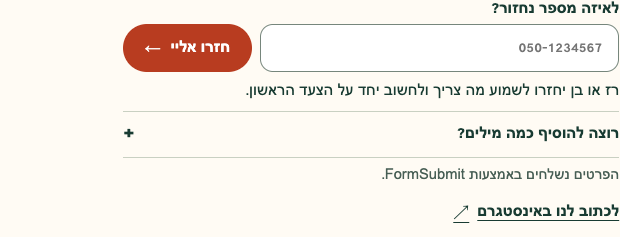
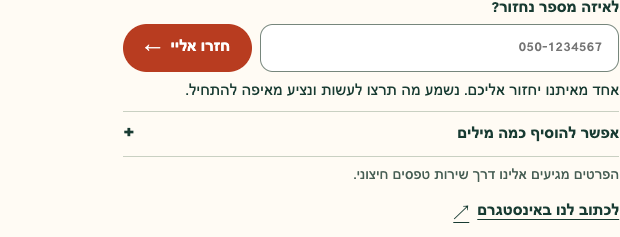
Use clear conversational Hebrew throughout the studio site

diff --git a/dist/index.html b/dist/index.html
@@ -4,9 +4,9 @@
   <meta charset="utf-8">
   <meta name="viewport" content="width=device-width, initial-scale=1">
   <meta name="theme-color" content="#fffbf4">
-  <meta name="description" content="רז ובן בונים אתרים, כלים ומוצרים דיגיטליים. יש לכם עסק, יוזמה או משימה שגוזלת זמן? בואו לראות איך אפשר לעזור.">
+  <meta name="description" content="אנחנו רז ובן. בונים אתרים לעסקים, כלים לניהול פניות וגרסאות ראשונות של אפליקציות. אפשר להשאיר מספר טלפון או לכתוב לנו באינסטגרם.">
   <meta property="og:title" content="RABEN | סטודיו לעיצוב ופיתוח">
-  <meta property="og:description" content="אתר שיציג אתכם, כלי שיקל על העבודה או גרסה ראשונה לרעיון שלכם.">
+  <meta property="og:description" content="אתר שיציג את העסק, כלי שיעזור לעקוב אחרי פניות או גרסה ראשונה של אפליקציה.">
   <meta property="og:type" content="website">
   <title>RABEN | סטודיו לעיצוב ופיתוח</title>
   <link rel="icon" href="assets/favicon.png">
@@ -31,7 +31,7 @@
   <div class="intro-copy">
     <p class="studio-line"><span aria-hidden="true"></span> סטודיו לעיצוב ופיתוח</p>
     <h1 id="intro-title">אתרים לעסקים. כלים שמקלים על העבודה.</h1>
-    <p class="intro-text">אנחנו רז ובן. בונים אתרים, מרכזים עבודה שמתפזרת בין הודעות וגיליונות, ועוזרים לבדוק רעיונות לאפליקציות.</p>
+    <p class="intro-text">אנחנו רז ובן. בסטודיו שלנו בונים אתרים שבהם לקוחות יכולים להכיר אתכם ולפנות אליכם. אנחנו בונים גם כלים לניהול פניות וגרסאות ראשונות של אפליקציות.</p>
     <div id="contact" class="hero-contact">
       <form id="brief-form" class="journey-form" aria-label="בקשת שיחת היכרות עם רז ובן" action="https://formsubmit.co/raben10studio@gmail.com" method="post">
       <fieldset>
@@ -42,19 +42,19 @@
           <button type="submit">חזרו אליי <span aria-hidden="true">←</span></button>
         </div>
         <p id="phone-error" class="field-error" role="alert" aria-atomic="true"></p>
-        <p class="callback-note">רז או בן יחזרו לשמוע מה צריך ולחשוב יחד על הצעד הראשון.</p>
+        <p class="callback-note">אחד מאיתנו יחזור אליכם. נשמע מה תרצו לעשות ונציע מאיפה להתחיל.</p>
         <details id="brief-extras" class="journey-extras">
-          <summary><span>רוצה להוסיף כמה מילים? <small id="brief-topic"></small></span></summary>
+          <summary><span>אפשר להוסיף כמה מילים <small id="brief-topic"></small></span></summary>
           <label for="idea">על מה נדבר?</label>
           <textarea id="idea" name="message" rows="2" maxlength="2000"></textarea>
           <div class="journey-fields">
             <div><label for="name">שם</label><input id="name" name="name" autocomplete="name" maxlength="100"></div>
             <div><label for="kind">נושא הפנייה</label>
               <select id="kind" name="project_type">
-                <option value="רוצה לחשוב על זה יחד">אשמח לחשוב יחד</option>
+                <option value="רוצה לחשוב על זה יחד">אשמח להתייעץ</option>
                 <option value="אתר או ממשק">אתר או דף נחיתה</option>
                 <option value="כלי לעסק">כלי לעבודה יומיומית</option>
-                <option value="רעיון למוצר">מוצר דיגיטלי חדש</option>
+                <option value="רעיון למוצר">רעיון לאפליקציה</option>
                 <option value="שיתוף פעולה">שיתוף פעולה</option>
               </select>
             </div>
@@ -63,7 +63,7 @@
         <input type="text" name="_honey" tabindex="-1" autocomplete="off" hidden>
         <input type="hidden" name="_subject" value="בקשה לשיחת היכרות מאתר RABEN">
         <input type="hidden" name="_template" value="table">
-        <p class="journey-form-note">הפרטים נשלחים באמצעות FormSubmit.</p>
+        <p class="journey-form-note">הפרטים מגיעים אלינו דרך שירות טפסים חיצוני.</p>
       </fieldset>
       <p id="form-status" role="status" aria-atomic="true"></p>
       <div id="contact-fallback" hidden>
@@ -81,7 +81,7 @@
 <section class="section services" id="websites" aria-labelledby="websites-title">
   <div class="services-heading">
     <h2 id="websites-title">מה תרצו לעשות?</h2>
-    <p>הנה שלושה צרכים שאפשר להתחיל מהם, ודוגמה למה שנוכל לבנות יחד בכל מקרה.</p>
+    <p>בחרנו שלוש דוגמאות מהיום־יום כדי להראות איך אתר או כלי יכולים לעזור.</p>
   </div>
   <div class="service-options">
     <article class="service-option" id="solution-website">
@@ -96,12 +96,12 @@
       </div>
       <div class="service-body">
         <h3>להציג פעילות ולקבל הרשמות</h3>
-        <p>יש לכם שירות, שיעור או אירוע? נבנה עמוד שמסביר מה מציעים, למי זה מתאים ואיך פונים או נרשמים.</p>
+        <p>אם אתם מציעים שירות או מעבירים סדנה, נבנה עמוד שבו אפשר לראות מה אתם מציעים, לשאול שאלה או להירשם.</p>
         <details class="service-example">
           <summary>איך נרשמים לסדנה? <span aria-hidden="true"></span></summary>
-          <p>בעמוד של סדנת קרמיקה רואים מה מכינים ומתי נפגשים. מי שרוצה להצטרף בוחר מועד ומשאיר פרטים באותו עמוד.</p>
+          <p>בעמוד של סדנת קרמיקה רואים מה מכינים ומתי נפגשים. אפשר לבחור מועד ולהשאיר פרטים באותו עמוד.</p>
         </details>
-        <a class="service-contact" href="#contact" data-service-kind="אתר או ממשק">נדבר על עמוד לפעילות שלי <span aria-hidden="true">←</span></a>
+        <a class="service-contact" href="#contact" data-service-kind="אתר או ממשק">נדבר על האתר שלי <span aria-hidden="true">←</span></a>
       </div>
     </article>
     <article class="service-option" id="solution-tool">
@@ -115,10 +115,10 @@
       </div>
       <div class="service-body">
         <h3>לראות למי עוד צריך לחזור</h3>
-        <p>פניות מתפזרות בין הודעות לרשימות? נרכז אותן בכלי אחד שמראה מי מחכה לתשובה ומי כבר קיבל מענה.</p>
+        <p>כשהפניות מגיעות מכמה מקומות, קל לפספס הודעה. נבנה כלי שבו רואים מי פנה, מי מטפל בפנייה ולמי עוד צריך לחזור.</p>
         <details class="service-example">
           <summary>איך עוקבים אחרי פנייה? <span aria-hidden="true"></span></summary>
-          <p>מרכז קהילתי מקבל בקשות על החוגים שלו. ליד כל פנייה מופיעים מי מטפל בה ומה מצב הטיפול, כדי שגם במשמרת הבאה ידעו למי לחזור.</p>
+          <p>למשל, במרכז קהילתי אפשר לרשום מי התעניין בחוג ומי כבר חזר אליו. כשמתחלפת משמרת, הצוות רואה אילו פניות נשארו פתוחות.</p>
         </details>
         <a class="service-contact" href="#contact" data-service-kind="כלי לעסק">נדבר על כלי למעקב <span aria-hidden="true">←</span></a>
       </div>
@@ -135,7 +135,7 @@
       </div>
       <div class="service-body">
         <h3>לבדוק רעיון עם אנשים</h3>
-        <p>יש לכם רעיון לאפליקציה? נבנה את הפעולה הכי חשובה בה, כדי שאנשים ינסו אותה ותראו מה עובד ומה כדאי לשנות.</p>
+        <p>יש לכם רעיון לאפליקציה? נתחיל בגרסה קטנה שאפשר לנסות. נראה איך אנשים משתמשים בה ונחליט יחד מה כדאי לשפר או להוסיף.</p>
         <details class="service-example">
           <summary>איך בודקים רעיון לאפליקציה? <span aria-hidden="true"></span></summary>
           <p>באפליקציה למציאת שותפים ללימוד בוחרים מקצוע ושעות נוחות, רואים מי לומד באותן שעות ושולחים הזמנה. כך אפשר לבדוק אם נוצרות פגישות לימוד.</p>
@@ -149,14 +149,14 @@
   <div class="journey-shell journey-about-layout">
     <div class="journey-intro">
       <h2 id="about-title">עובדים ישירות עם רז ובן</h2>
-      <p>אנחנו שותפים בסטודיו לעיצוב ופיתוח. שנינו מלווים את הפרויקט מהשיחה הראשונה ועד שבודקים יחד את מה שבנינו.</p>
+      <p>אנחנו שותפים בסטודיו לעיצוב ופיתוח. איתנו תדברו על מה שצריך, ואנחנו גם נעצב, נבנה ונבדוק את האתר או את הכלי.</p>
     </div>
     <div id="process" class="journey-process" aria-labelledby="process-title">
       <h3 id="process-title">איך עובדים יחד?</h3>
       <ol>
         <li><div><h4>מתחילים בשיחה</h4><p>נשמע מה צריך ולמי זה מיועד. אחרי השיחה תקבלו הצעה שמפרטת מה נבנה, כמה זה יעלה ומתי זה יהיה מוכן.</p></div></li>
-        <li><div><h4>רואים איך זה ייראה</h4><p>נעבור יחד על המסכים, נבדוק אם הכל ברור ונעדכן את העיצוב לפי המשוב שלכם.</p></div></li>
-        <li><div><h4>בונים ובודקים</h4><p>נפתח את האתר או הכלי ונבדוק יחד את הפעולות העיקריות במחשב ובטלפון.</p></div></li>
+        <li><div><h4>עוברים על העיצוב</h4><p>נראה לכם איך ייראו המסכים ואיפה ילחצו כדי לפנות או להירשם. נעבור עליהם יחד ונשנה את מה שצריך לפני שנתחיל בפיתוח.</p></div></li>
+        <li><div><h4>בונים ובודקים</h4><p>נבנה את האתר או הכלי ונבדוק שהפעולות החשובות עובדות גם במחשב וגם בטלפון, למשל שטופס הרשמה באמת קולט את הפרטים.</p></div></li>
       </ol>
     </div>
   </div>
@@ -169,8 +169,8 @@
     <h2 id="faq-title">לפני שמתחילים</h2>
     <div class="journey-answers">
       <details><summary>כמה זה עולה?</summary><p>המחיר תלוי במה שצריך לעצב ולפתח. אחרי שיחת ההיכרות תקבלו הצעה שמפרטת מה כלול, מה המחיר וכמה זמן זה ייקח, ותוכלו להחליט אם להתקדם.</p></details>
-      <details><summary>אפשר לשפר אתר קיים?</summary><p>כן. שלחו קישור וספרו מה הייתם רוצים לשנות. נבדוק מה עובד היום ואיפה אפשר להקל על מי שמשתמש באתר.</p></details>
-      <details><summary>מה כדאי להכין לשיחה?</summary><p>אפשר להגיע גם עם רעיון ראשוני. מספיק לספר מה חסר היום ולמי זה יעזור. אם יש אתר קיים או דוגמה שאהבתם, אפשר לצרף קישור.</p></details>
+      <details><summary>אפשר לשפר אתר קיים?</summary><p>כן. שלחו לנו קישור וספרו מה הייתם רוצים לשפר. נבדוק את האתר ונציע מה כדאי להשאיר ומה כדאי לשנות.</p></details>
+      <details><summary>מה כדאי להכין לשיחה?</summary><p>מספיק לספר מה הייתם רוצים שיהיה קל יותר. אם יש לכם אתר קיים או דוגמה שאהבתם, קישור יעזור לנו להבין למה התכוונתם.</p></details>
     </div>
   </div>
 </section>
@@ -178,7 +178,7 @@
   <div class="journey-shell closing-contact">
     <div class="journey-intro">
       <h2 id="contact-title">שנדבר על זה?</h2>
-      <p>גם שאלה אחת על האתר או על הדרך שבה אתם עובדים היא סיבה טובה לכתוב לנו.</p>
+      <p>אפשר לכתוב לנו שאלה באינסטגרם או להשאיר מספר ונחזור אליכם.</p>
     </div>
     <div class="closing-actions"><a class="header-contact" href="#contact">בקשו שיחה <span aria-hidden="true">←</span></a><a class="journey-social" data-instagram href="https://ig.me/m/raben10studio" target="_blank" rel="noopener noreferrer">כתבו באינסטגרם <span aria-hidden="true">↗</span></a></div>
   </div>

diff --git a/dist/app.js b/dist/app.js
@@ -26,7 +26,7 @@ function createProjectCard(project) {
   }
   const body = makeElement('div', 'project-body');
   body.append(makeElement('span', 'project-category', project.category));
-  if (project.concept) body.append(makeElement('span', 'concept-label', 'דוגמת קונספט'));
+  if (project.concept) body.append(makeElement('span', 'concept-label', 'דוגמה להמחשה'));
   body.append(
     makeElement('h3', 'project-title', project.title),
     makeElement('p', 'project-description', project.description),
@@ -104,10 +104,10 @@ function callbackMessage() {
 
 function updateFallback() {
   instagramBrief.value = [
-    'היי רז ובן, אשמח לדבר על פרויקט.',
+    'היי רז ובן,',
     ...(nameField.value.trim() ? ['שם: ' + nameField.value.trim()] : []),
     'טלפון: ' + phone.value.trim(),
-    'סוג הפרויקט: ' + kind.selectedOptions[0].textContent,
+    'נושא הפנייה: ' + kind.selectedOptions[0].textContent,
     '',
     callbackMessage()
   ].join('\n');
@@ -140,8 +140,8 @@ form.addEventListener('submit', async event => {
   if (!phone.checkValidity()) {
     phone.setAttribute('aria-invalid', 'true');
     phoneError.textContent = phone.validity.valueMissing
-      ? 'כדי שנוכל לחזור אליך, צריך להוסיף מספר טלפון.'
-      : 'כדאי לבדוק את מספר הטלפון ולהוסיף קידומת, למשל 050-1234567.';
+      ? 'חסר מספר טלפון לחזרה.'
+      : 'אפשר להזין מספר עם קידומת, למשל 050-1234567.';
     phone.focus();
     return;
   }
@@ -172,13 +172,13 @@ form.addEventListener('submit', async event => {
     updateTopic();
     instagramBrief.value = '';
     formStatus.dataset.state = 'success';
-    formStatus.textContent = 'תודה, הפנייה נשלחה. נחזור אליך למספר שהשארת.';
+    formStatus.textContent = 'תודה, קיבלנו את הבקשה. נחזור למספר שהשארתם.';
   } catch {
     updateFallback();
     copyStatus.textContent = 'אחרי ההעתקה אפשר להדביק את ההודעה בשיחה ולשלוח.';
     fallback.hidden = false;
     formStatus.dataset.state = 'error';
-    formStatus.textContent = 'לא התקבל אישור שליחה. הפרטים נשמרו כאן ואפשר לנסות שוב או לשלוח אותם באינסטגרם.';
+    formStatus.textContent = 'לא קיבלנו אישור שהבקשה הגיעה. הפרטים עדיין בטופס. אפשר לנסות שוב או לשלוח לנו את ההודעה באינסטגרם.';
   } finally {
     clearTimeout(timer);
     fieldset.disabled = false;
@@ -192,6 +192,6 @@ document.getElementById('instagram-fallback-link').addEventListener('click', asy
   } catch {
     instagramBrief.focus();
     instagramBrief.select();
-    copyStatus.textContent = 'יש להעתיק את הטקסט המסומן ולהדביק אותו בשיחה באינסטגרם.';
+    copyStatus.textContent = 'אפשר להעתיק את ההודעה המסומנת ולהדביק אותה בשיחה באינסטגרם.';
   }
 });
